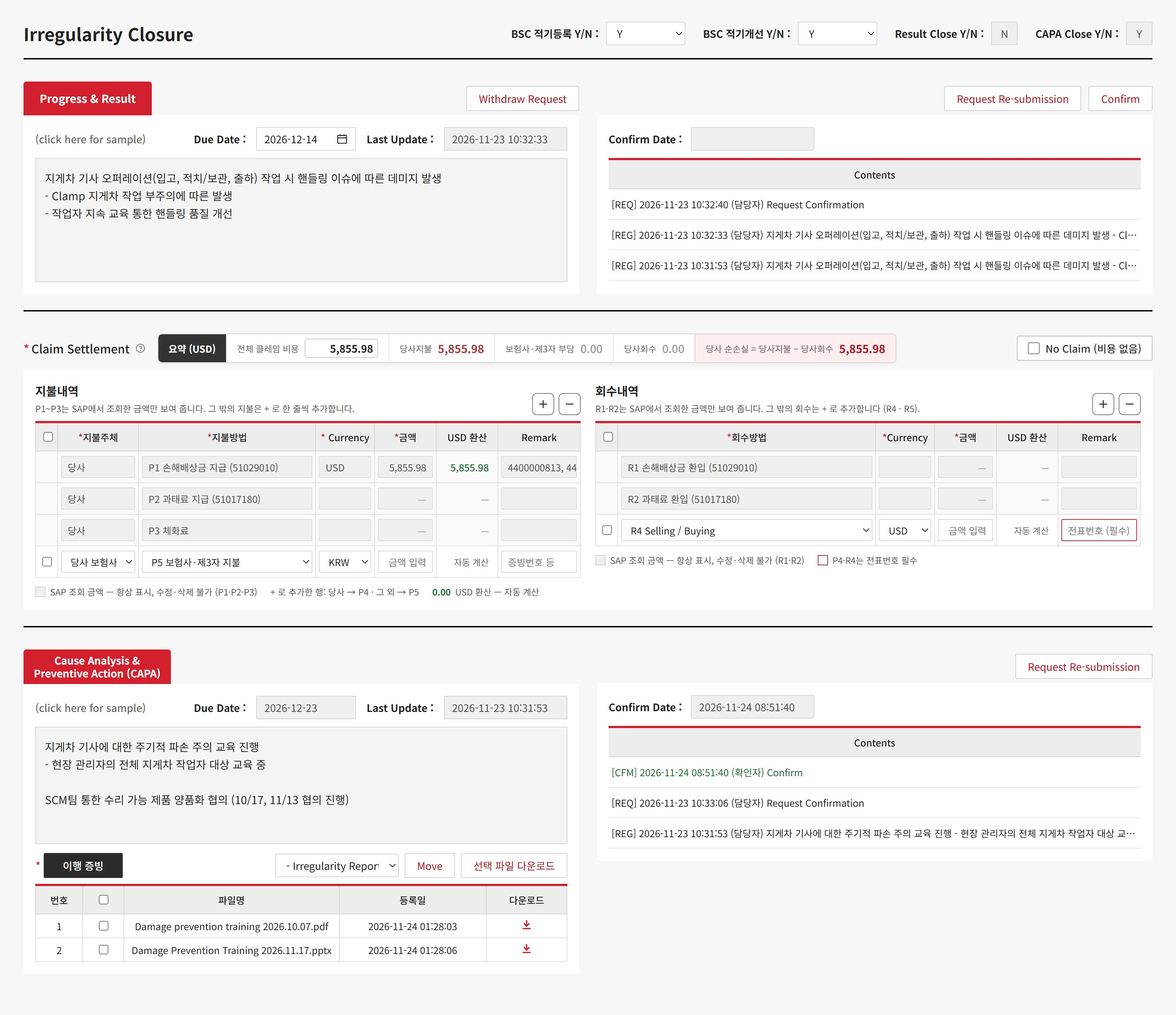
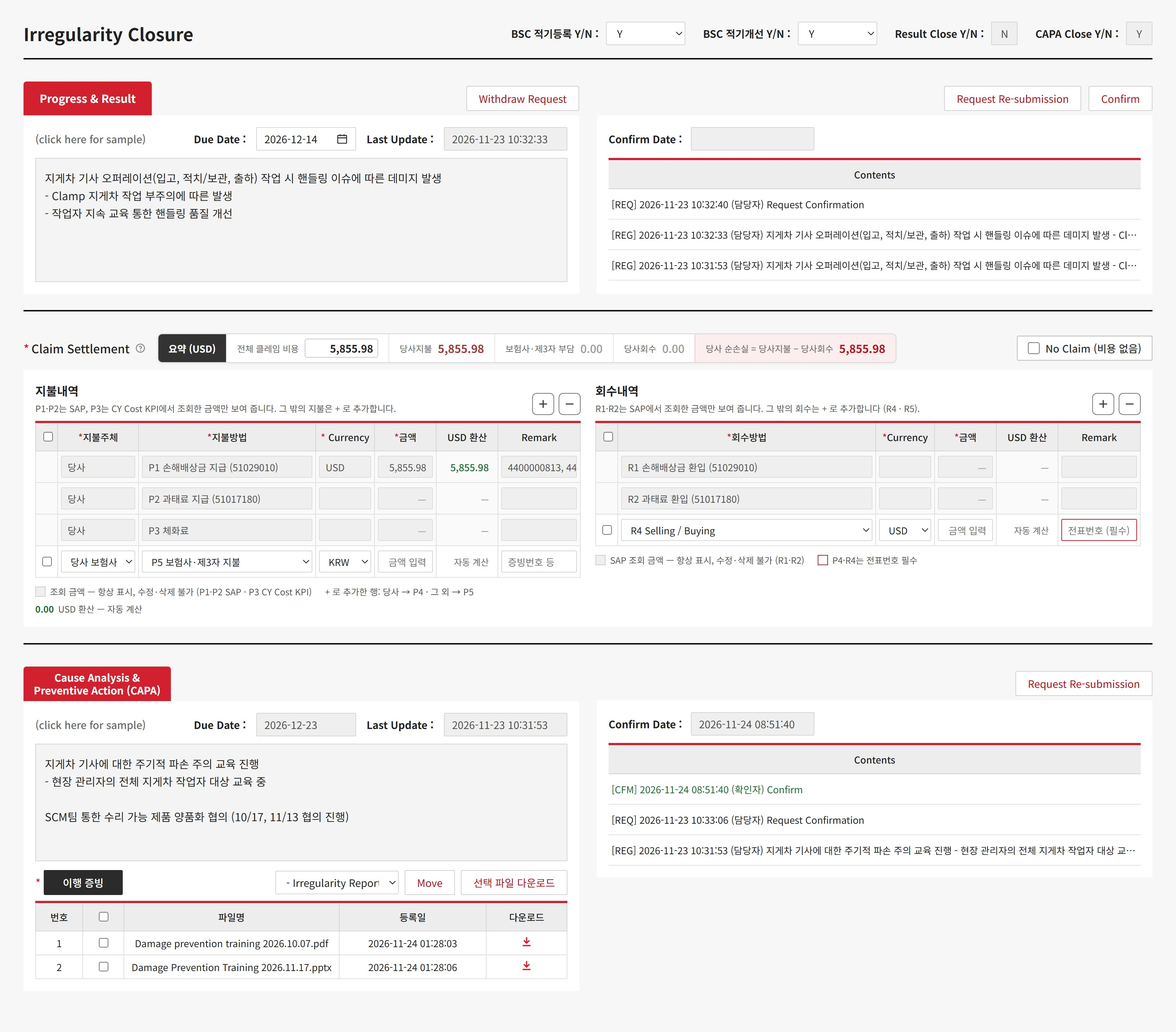
qms-claim-closure: P3 source is CY Cost KPI (P1/P2/R1/R2 from SAP)

diff --git a/share/qms-claim-closure.html b/share/qms-claim-closure.html
@@ -173,7 +173,7 @@ a{color:#B3121F}a:hover{color:#7E0C16}
 <div style="display: flex; align-items: flex-end; justify-content: space-between; gap: 12px; margin-bottom: 8px;">
 <div style="min-width: 0;">
 <h2 style="margin: 0; font-size: 16px; font-weight: 700; display: flex; align-items: center; gap: 8px;">지불내역</h2>
-<p style="margin: 4px 0 0; font-size: 12px; color: #555; line-height: 1.5;">P1~P3는 SAP에서 조회한 금액만 보여 줍니다. 그 밖의 지불은 + 로 한 줄씩 추가합니다.</p>
+<p style="margin: 4px 0 0; font-size: 12px; color: #555; line-height: 1.5;">P1·P2는 SAP, P3는 CY Cost KPI에서 조회한 금액만 보여 줍니다. 그 밖의 지불은 + 로 추가합니다.</p>
 </div>
 <div style="display: flex; align-items: center; gap: 6px; flex: none;">
 
@@ -234,7 +234,7 @@ a{color:#B3121F}a:hover{color:#7E0C16}
 </table>
 </div>
 <div class="legend">
-<span><span class="sw" style="background: #EFEFEF;"></span>SAP 조회 금액 — 항상 표시, 수정·삭제 불가 (P1·P2·P3)</span>
+<span><span class="sw" style="background: #EFEFEF;"></span>조회 금액 — 항상 표시, 수정·삭제 불가 (P1·P2 SAP · P3 CY Cost KPI)</span>
 <span>+ 로 추가한 행: 당사 → P4 · 그 외 → P5</span>
 <span><span style="color: #1E6B34; font-weight: 700; margin-right: 6px;">0.00</span>USD 환산 — 자동 계산</span>
 
@@ -454,7 +454,7 @@ Summary (USD)</div>
 <div style="display: flex; align-items: flex-end; justify-content: space-between; gap: 12px; margin-bottom: 8px;">
 <div style="min-width: 0;">
 <h2 style="margin: 0; font-size: 16px; font-weight: 700; display: flex; align-items: center; gap: 8px;">Payments</h2>
-<p style="margin: 4px 0 0; font-size: 12px; color: #555; line-height: 1.5;">P1–P3 show SAP amounts only. Add other payments one row at a time with +.</p>
+<p style="margin: 4px 0 0; font-size: 12px; color: #555; line-height: 1.5;">P1·P2 show SAP amounts and P3 shows the CY Cost KPI amount only. Add other payments with +.</p>
 </div>
 <div style="display: flex; align-items: center; gap: 6px; flex: none;">
 
@@ -515,7 +515,7 @@ Summary (USD)</div>
 </table>
 </div>
 <div class="legend">
-<span><span class="sw" style="background: #EFEFEF;"></span>SAP amounts — always shown, cannot edit or delete (P1·P2·P3)</span>
+<span><span class="sw" style="background: #EFEFEF;"></span>Looked-up amounts — always shown, cannot edit or delete (P1·P2 SAP · P3 CY Cost KPI)</span>
 <span>Rows added with +: LXP → P4 · others → P5</span>
 <span><span style="color: #1E6B34; font-weight: 700; margin-right: 6px;">0.00</span>In USD — auto-calculated</span>
 
@@ -674,7 +674,7 @@ Discussing repair of salvageable goods with the SCM team (meetings held 10/17, 1
 <tr><td><span class="tag add">신설</span></td><td> 요약 바</td><td>Claim Settlement 제목 오른쪽에 한 줄로 배치</td></tr>
 <tr><td><span class="tag add">추가</span></td><td> 전체 클레임 비용</td><td>요약 맨 앞 칸. 시안에서는 임시 입력 칸 (5번 참고)</td></tr>
 <tr><td><span class="tag chg">변경</span></td><td> 지불·회수 표</td><td>위아래 배치 → 좌우 배치 (지불 왼쪽, 회수 오른쪽)</td></tr>
-<tr><td><span class="tag chg">변경</span></td><td> SAP 조회 행</td><td>지불 P1·P2·P3, 회수 R1·R2는 <b>항상 표시</b>하는 고정 행. 조회 금액만 보여 주고 수정·삭제 불가</td></tr>
+<tr><td><span class="tag chg">변경</span></td><td> 조회 행</td><td>지불 P1·P2 (SAP) · P3 (CY Cost KPI), 회수 R1·R2 (SAP)는 <b>항상 표시</b>하는 고정 행. 조회 금액만 보여 주고 수정·삭제 불가</td></tr>
 <tr><td><span class="tag del">삭제</span></td><td>회수처 컬럼</td><td>회수 표에서 삭제</td></tr>
 <tr><td><span class="tag chg">변경</span></td><td> 행 추가·삭제</td><td>행마다 있던 '삭제' 버튼 → 표 오른쪽 위 <b>+ / −</b>. + 로는 지불 P4·P5, 회수 R4·R5만 추가</td></tr>
 <tr><td><span class="tag add">추가</span></td><td> Currency</td><td>금액 앞에 통화 선택 (KRW, USD, EUR)</td></tr>
@@ -716,9 +716,9 @@ Discussing repair of salvageable goods with the SCM team (meetings held 10/17, 1
 </table>
 <ul style="margin-top: 12px;">
 <li>표시: USD, 천 단위 콤마, 소수 2자리.</li>
-<li>행 추가·수정·삭제, SAP 조회 결과가 바뀌면 바로 다시 계산.</li>
+<li>행 추가·수정·삭제, SAP · CY Cost KPI 조회 결과가 바뀌면 바로 다시 계산.</li>
 <li>보험사·제3자 부담과 전체 클레임 비용은 당사 순손실 계산에 들어가지 않음.</li>
-<li>시안 페이지의 노란 <b>'원천 데이터 (임시 입력)'</b> 칸은 시연용입니다. 화면 위쪽 전체 비용 칸과 SAP · I/F 조회 값을 대신 넣어 보는 곳이며 실제 화면에는 넣지 않음.</li>
+<li>시안 페이지의 노란 <b>'원천 데이터 (임시 입력)'</b> 칸은 시연용입니다. 화면 위쪽 전체 비용 칸과 SAP · CY Cost KPI 조회 값을 대신 넣어 보는 곳이며 실제 화면에는 넣지 않음.</li>
 </ul>
 <h3>요약 색 규칙</h3>
 <table class="t">
@@ -747,10 +747,10 @@ Discussing repair of salvageable goods with the SCM team (meetings held 10/17, 1
 <ul>
 <li>위치: Claim Settlement 줄 <b>오른쪽 끝</b> (다른 섹션의 버튼 자리와 같음). 테두리 있는 버튼형 체크박스 <span class="f">☐ No Claim (비용 없음)</span>.</li>
 <li>체크하면: 요약 바 자리에 회색 배지 <b>'No Claim — 비용 없음'</b>, 지불·회수 표와 + / − 버튼은 접고 안내 문구 표시 (위 'No Claim 체크 시' 화면).</li>
-<li>체크 조건: <b>비용 금액이 하나도 없을 때만</b> — SAP 조회 금액(P1~P3, R1·R2), + 로 추가한 행의 금액, 전체 클레임 비용이 모두 비어 있어야 함. 하나라도 있으면 체크박스 비활성, 마우스를 올리면 이유 표시.</li>
+<li>체크 조건: <b>비용 금액이 하나도 없을 때만</b> — 조회 금액(P1·P2·R1·R2 SAP, P3 CY Cost KPI), + 로 추가한 행의 금액, 전체 클레임 비용이 모두 비어 있어야 함. 하나라도 있으면 체크박스 비활성, 마우스를 올리면 이유 표시.</li>
 <li>체크할 때: 금액 없는 추가 행은 자동 삭제. 고정 행은 그대로 두고 표와 함께 접힘.</li>
 <li>체크 해제: 언제든 가능. 체크 중에는 안내 상자의 <b>'+ 지불 추가 / + 회수 추가'</b>를 누르면 No Claim이 <b>자동 해제</b>되고 행이 추가됨.</li>
-<li>체크 중에 SAP · I/F 조회 금액이나 전체 클레임 비용이 들어오면: No Claim <b>자동 해제</b>, 이력에 'No Claim 자동 해제 (조회 금액 들어옴)' 기록 (제안).</li>
+<li>체크 중에 SAP · CY Cost KPI 조회 금액이나 전체 클레임 비용이 들어오면: No Claim <b>자동 해제</b>, 이력에 'No Claim 자동 해제 (조회 금액 들어옴)' 기록 (제안).</li>
 <li>비용이 하나도 없고 No Claim도 아닐 때: 지불 표 아래에 회색 안내 '비용이 없으면 오른쪽 위 No Claim을 체크하세요'.</li>
 <li>저장 · Result Close: <b>금액이 있는 행 1개 이상</b> 또는 <b>No Claim 체크</b> 중 하나가 아니면 막음 (비용 누락 방지).</li>
 <li>데이터: Claim 여부(Y/N) 따로 저장 → 'No Claim 건수'와 '비용 미입력 건수'를 나눠 집계.</li>
@@ -787,7 +787,7 @@ Discussing repair of salvageable goods with the SCM team (meetings held 10/17, 1
 <tbody>
 <tr><td>고정 1</td><td>당사</td><td>P1 손해배상금 지급 (51029010)</td><td> SAP 조회, 수정·삭제 불가</td></tr>
 <tr><td>고정 2</td><td>당사</td><td>P2 과태료 지급 (51017180)</td><td>SAP 조회, 수정·삭제 불가</td></tr>
-<tr><td>고정 3</td><td>당사</td><td>P3 체화료</td><td>DEM/DET/STG 조회 금액, 수정·삭제 불가</td></tr>
+<tr><td>고정 3</td><td>당사</td><td>P3 체화료</td><td><b>CY Cost KPI</b> 조회 (DEM/DET/STG), 수정·삭제 불가</td></tr>
 <tr><td rowspan="2">4번째부터 (+)</td><td>당사</td><td>P4 Selling / Buying (자동)</td><td>수기입력, <b>전표번호 필수</b></td></tr>
 <tr><td>당사 보험사 · 협력사 · 고객사</td><td>P5 보험사·제3자 지불 (자동)</td><td>수기입력</td></tr>
 </tbody>
@@ -814,8 +814,8 @@ Discussing repair of salvageable goods with the SCM team (meetings held 10/17, 1
 <ol>
 <li><b>환율 출처와 기준일</b> — 일자 컬럼이 없어져 USD 환산 기준일을 따로 정해야 함 (예: 입력일, 전표일, 부적합 발생일).</li>
 <li><b>전체 클레임 비용 입력 위치</b> — 화면 위쪽의 기존 칸을 그대로 쓰고 요약에는 보여 주기만 할지, 요약의 이 칸을 입력 칸으로 쓸지. 두 곳에서 입력하면 값이 어긋나므로 한 곳만.</li>
-<li><b>SAP 조회 시점</b> — P1~P3 · R1 · R2 금액을 화면을 열 때 자동으로 불러올지, 버튼으로 불러올지.</li>
-<li><b>P3 체화료 조회 출처</b> — 기존엔 수기입력(자동 생성 건만 I/F). 이제 조회 금액만 보여 주므로 I/F 범위 확인.</li>
+<li><b>조회 시점</b> — SAP(P1·P2·R1·R2)와 CY Cost KPI(P3) 금액을 화면을 열 때 자동으로 불러올지, 버튼으로 불러올지.</li>
+<li><b>P3 CY Cost KPI 연동 범위</b> — 가져올 금액(DEM/DET/STG 합계인지 항목별인지)과 통화, Remark에 보여 줄 참조번호.</li>
 <li><b>R3 체화료 환입</b> — 회수 + 선택지(R4·R5)에서 빠짐. 필요하면 고정 행 또는 선택지로 추가.</li>
 <li><b>회수처 정보</b> — 컬럼을 없앴으므로 필요하면 Remark에 적을지.</li>
 <li><b>기존 Actual Loss Cost 데이터 이관</b> — 기존 Pay Amount → P1 또는 추가 행, Recovery Amount → R1 또는 추가 행으로 옮길지.</li>
@@ -842,15 +842,15 @@ Discussing repair of salvageable goods with the SCM team (meetings held 10/17, 1
                R1: 'R1 손해배상금 환입 (51029010)', R2: 'R2 과태료 환입 (51017180)', R4: 'R4 Selling / Buying', R5: 'R5 기타' },
       choose: '선택', amount: '금액 입력', auto: '자동 계산', remark: '증빙번호 등', voucher: '전표번호 (필수)',
       emptyHint: '조회·입력된 비용이 없습니다. 비용이 없으면 오른쪽 위 No Claim을 체크하세요.',
-      ncDisabled: '비용 금액(SAP 조회, 입력 행, 전체 클레임 비용)이 있어 No Claim을 선택할 수 없습니다.',
+      ncDisabled: '비용 금액(SAP · CY Cost KPI 조회, 입력 행, 전체 클레임 비용)이 있어 No Claim을 선택할 수 없습니다.',
       badge: 'No Claim — 비용 없음',
       notice: '<b style="color:#333">비용이 없는 건으로 표시되었습니다.</b> 지불내역·회수내역 표는 접혀 있습니다.<br>비용이 생기면 아래 버튼으로 바로 추가하세요. No Claim은 자동으로 해제됩니다.',
       addPay: '+ 지불 추가', addRec: '+ 회수 추가',
       lossK: '당사 순손실 = 당사지불 − 당사회수', gainK: '당사 순이익 = 당사회수 − 당사지불',
       histOn: 'No Claim 체크', histOff: 'No Claim 해제', who: '담당자',
       demo: '시연', demoNote: '아래 Claim Settlement는 실제로 눌러 볼 수 있습니다', reset: '처음 상태로', empty: '비용 없는 상태로', check: '저장 검사',
-      srcTitle: '원천 데이터 (임시 입력)', srcNote: '실제로는 화면 위쪽 칸과 SAP · I/F에서 들어오는 값입니다. 여기서 바꾸면 아래 화면에 바로 반영됩니다.',
-      srcTotal: '전체 클레임 비용 (화면 위쪽 칸)', srcPay: '지불 조회 (SAP · I/F)', srcRec: '회수 조회 (SAP)', srcVoucher: '전표번호', histAuto: 'No Claim 자동 해제 (조회 금액 들어옴)',
+      srcTitle: '원천 데이터 (임시 입력)', srcNote: '실제로는 화면 위쪽 칸, SAP, CY Cost KPI에서 들어오는 값입니다. 여기서 바꾸면 아래 화면에 바로 반영됩니다.',
+      srcTotal: '전체 클레임 비용 (화면 위쪽 칸)', srcPay: '지급 조회 — P1·P2 SAP · P3 CY Cost KPI', srcRec: '회수 조회 — R1·R2 SAP', srcVoucher: '전표번호', srcRef: '참조번호', histAuto: 'No Claim 자동 해제 (조회 금액 들어옴)',
       fx: '예시 환율: 1 USD = 1,400 KRW · 1 EUR = 1.08 USD',
       ok: '저장 가능 — 필수 항목이 모두 입력되었습니다.', okNc: '저장 가능 — No Claim 건입니다.',
       errRows: '저장 불가 — 비용 금액이 없습니다. 금액을 입력하거나 No Claim을 체크하세요.', errFields: function (n) { return '저장 불가 — 빨간 칸 ' + n + '곳을 채우세요.'; }
@@ -861,15 +861,15 @@ Discussing repair of salvageable goods with the SCM team (meetings held 10/17, 1
                R1: 'R1 Compensation (51029010)', R2: 'R2 Penalty (51017180)', R4: 'R4 Selling / Buying', R5: 'R5 Other' },
       choose: 'Select', amount: 'Amount', auto: 'Auto', remark: 'Evidence no.', voucher: 'Voucher no.',
       emptyHint: 'No cost found or entered. If there is no cost, tick No Claim at the top right.',
-      ncDisabled: 'A cost amount exists (SAP, entered row or total claim cost), so No Claim cannot be selected.',
+      ncDisabled: 'A cost amount exists (SAP / CY Cost KPI, entered row or total claim cost), so No Claim cannot be selected.',
       badge: 'No Claim — no cost',
       notice: '<b style="color:#333">This case is marked as having no cost.</b> The payment and recovery tables are collapsed.<br>If a cost arises, add it with the buttons below. No Claim is cleared automatically.',
       addPay: '+ Add payment', addRec: '+ Add recovery',
       lossK: 'LXP net loss (paid − recovered)', gainK: 'LXP net gain (recovered − paid)',
       histOn: 'No Claim checked', histOff: 'No Claim cleared', who: 'PIC',
       demo: 'Demo', demoNote: 'The Claim Settlement below is clickable', reset: 'Reset', empty: 'Start with no cost', check: 'Check save',
-      srcTitle: 'Source data (temporary input)', srcNote: 'In the real system these come from the field at the top of the screen and from SAP / I/F. Changes here update the screen below right away.',
-      srcTotal: 'Total claim cost (top of screen)', srcPay: 'Payment lookup (SAP · I/F)', srcRec: 'Recovery lookup (SAP)', srcVoucher: 'Voucher no.', histAuto: 'No Claim cleared automatically (amount received)',
+      srcTitle: 'Source data (temporary input)', srcNote: 'In the real system these come from the field at the top of the screen, SAP and CY Cost KPI. Changes here update the screen below right away.',
+      srcTotal: 'Total claim cost (top of screen)', srcPay: 'Payment lookup — P1·P2 SAP · P3 CY Cost KPI', srcRec: 'Recovery lookup — R1·R2 SAP', srcVoucher: 'Voucher no.', srcRef: 'Ref no.', histAuto: 'No Claim cleared automatically (amount received)',
       fx: 'Example FX: 1 USD = 1,400 KRW · 1 EUR = 1.08 USD',
       ok: 'Can save — all required fields are filled.', okNc: 'Can save — No Claim case.',
       errRows: 'Cannot save — no cost amount. Enter an amount or tick No Claim.', errFields: function (n) { return 'Cannot save — fill the ' + n + ' red field(s).'; }
@@ -936,14 +936,14 @@ Discussing repair of salvageable goods with the SCM team (meetings held 10/17, 1
     section.parentElement.insertBefore(bar, section);
     var msg = bar.querySelector('[data-msg]');
 
-    // source data panel (temporary, demo only): top-of-screen total + SAP / I/F lookups
+    // source data panel (temporary, demo only): top-of-screen total + SAP / CY Cost KPI lookups
     var IN = 'height:28px;border:1px solid #D6C48A;border-radius:3px;background:#fff;font:inherit;font-size:13px;padding:0 6px;box-sizing:border-box;';
     function srcRow(type) {
       return '<div style="display:grid;grid-template-columns:minmax(90px,1fr) 62px minmax(70px,100px) minmax(80px,120px);gap:6px;align-items:center">' +
         '<span style="white-space:nowrap;overflow:hidden;text-overflow:ellipsis" title="' + esc(L.types[type]) + '">' + esc(L.types[type]) + '</span>' +
         '<select data-src="' + type + '" data-f="cur" style="' + IN + '">' + ['USD', 'KRW', 'EUR'].map(function (c) { return '<option>' + c + '</option>'; }).join('') + '</select>' +
         '<input data-src="' + type + '" data-f="amt" inputmode="decimal" placeholder="' + L.amount + '" style="' + IN + 'text-align:right">' +
-        '<input data-src="' + type + '" data-f="remark" placeholder="' + L.srcVoucher + '" style="' + IN + '"></div>';
+        '<input data-src="' + type + '" data-f="remark" placeholder="' + (type === 'P3' ? L.srcRef : L.srcVoucher) + '" style="' + IN + '"></div>';
     }
     function srcBlock(title, inner, flex) {
       return '<div style="flex:' + (flex || '1 1 440px') + ';min-width:0;display:flex;flex-direction:column;gap:6px"><b style="font-size:12px">' + title + '</b>' + inner + '</div>';
@@ -1017,7 +1017,7 @@ Discussing repair of salvageable goods with the SCM team (meetings held 10/17, 1
     function usdCell(r) { return '<td data-usd>' + (r.amt ? '<div class="usd">' + fmt(usd(r)) + '</div>' : '<div class="auto">' + (r.fixed ? '—' : L.auto) + '</div>') + '</td>'; }
     function rowHTML(k, r, i) {
       var a = ' data-k="' + k + '" data-i="' + i + '"';
-      if (r.fixed) {   // SAP 조회 행: 항상 표시, 수정·삭제 불가
+      if (r.fixed) {   // 조회 행 (P1·P2·R1·R2 SAP, P3 CY Cost KPI): 항상 표시, 수정·삭제 불가
         var h = '<tr class="fx"><td></td>';
         if (k === 'pay') h += '<td><div class="rocell">' + L.parties.LXP + '</div></td>';
         h += '<td><div class="rocell">' + esc(L.types[r.type]) + '</div></td>';

diff --git a/share/qms-claim-closure-en.html b/share/qms-claim-closure-en.html
@@ -173,7 +173,7 @@ Summary (USD)</div>
 <div style="display: flex; align-items: flex-end; justify-content: space-between; gap: 12px; margin-bottom: 8px;">
 <div style="min-width: 0;">
 <h2 style="margin: 0; font-size: 16px; font-weight: 700; display: flex; align-items: center; gap: 8px;">Payments</h2>
-<p style="margin: 4px 0 0; font-size: 12px; color: #555; line-height: 1.5;">P1–P3 show SAP amounts only. Add other payments one row at a time with +.</p>
+<p style="margin: 4px 0 0; font-size: 12px; color: #555; line-height: 1.5;">P1·P2 show SAP amounts and P3 shows the CY Cost KPI amount only. Add other payments with +.</p>
 </div>
 <div style="display: flex; align-items: center; gap: 6px; flex: none;">
 
@@ -234,7 +234,7 @@ Summary (USD)</div>
 </table>
 </div>
 <div class="legend">
-<span><span class="sw" style="background: #EFEFEF;"></span>SAP amounts — always shown, cannot edit or delete (P1·P2·P3)</span>
+<span><span class="sw" style="background: #EFEFEF;"></span>Looked-up amounts — always shown, cannot edit or delete (P1·P2 SAP · P3 CY Cost KPI)</span>
 <span>Rows added with +: LXP → P4 · others → P5</span>
 <span><span style="color: #1E6B34; font-weight: 700; margin-right: 6px;">0.00</span>In USD — auto-calculated</span>
 
@@ -394,7 +394,7 @@ Discussing repair of salvageable goods with the SCM team (meetings held 10/17, 1
 <tr><td><span class="tag add">New</span></td><td> Summary bar</td><td>One line to the right of the Claim Settlement title</td></tr>
 <tr><td><span class="tag add">Add</span></td><td> Total claim cost</td><td>First summary cell. A temporary input in this mockup (see 5)</td></tr>
 <tr><td><span class="tag chg">Change</span></td><td> Payment / recovery tables</td><td>Stacked → side by side (payments left, recoveries right)</td></tr>
-<tr><td><span class="tag chg">Change</span></td><td> SAP rows</td><td>Payments P1·P2·P3 and recoveries R1·R2 are fixed rows that are <b>always shown</b>. They show the looked-up amount only and cannot be edited or deleted</td></tr>
+<tr><td><span class="tag chg">Change</span></td><td> Looked-up rows</td><td>Payments P1·P2 (SAP) · P3 (CY Cost KPI) and recoveries R1·R2 (SAP) are fixed rows that are <b>always shown</b>. They show the looked-up amount only and cannot be edited or deleted</td></tr>
 <tr><td><span class="tag del">Remove</span></td><td>Recovered-from column</td><td>Removed from the recovery table</td></tr>
 <tr><td><span class="tag chg">Change</span></td><td> Add / delete rows</td><td>Per-row 'Delete' button → <b>+ / −</b> at the top right of each table. + adds only P4·P5 (payments) and R4·R5 (recoveries)</td></tr>
 <tr><td><span class="tag add">Add</span></td><td> Currency</td><td>Currency selector before the amount (KRW, USD, EUR)</td></tr>
@@ -436,9 +436,9 @@ Discussing repair of salvageable goods with the SCM team (meetings held 10/17, 1
 </table>
 <ul style="margin-top: 12px;">
 <li>Display: USD, thousands separators, 2 decimals.</li>
-<li>Recalculate immediately when rows are added, edited or deleted, or SAP results change.</li>
+<li>Recalculate immediately when rows are added, edited or deleted, or SAP / CY Cost KPI results change.</li>
 <li>Insurer / 3rd party and total claim cost are not part of the LXP net loss.</li>
-<li>The yellow <b>'Source data (temporary input)'</b> box on the mockup page is for the demo only. It stands in for the total-cost field at the top of the screen and the SAP / I/F lookups, and is not part of the real screen.</li>
+<li>The yellow <b>'Source data (temporary input)'</b> box on the mockup page is for the demo only. It stands in for the total-cost field at the top of the screen and the SAP / CY Cost KPI lookups, and is not part of the real screen.</li>
 </ul>
 <h3>Summary colour rules</h3>
 <table class="t">
@@ -467,10 +467,10 @@ Discussing repair of salvageable goods with the SCM team (meetings held 10/17, 1
 <ul>
 <li>Position: <b>right end</b> of the Claim Settlement row (same place as other sections' buttons). Button-style checkbox with a border: <span class="f">☐ No Claim</span>.</li>
 <li>When checked: the summary bar is replaced by a grey badge <b>'No Claim — no cost'</b>; the tables and + / − buttons collapse and a notice is shown (see 'When No Claim is checked' above).</li>
-<li>Can be checked <b>only when there is no cost amount at all</b> — SAP amounts (P1–P3, R1·R2), amounts in rows added with +, and total claim cost must all be empty. Otherwise the checkbox is disabled and hovering shows why.</li>
+<li>Can be checked <b>only when there is no cost amount at all</b> — looked-up amounts (P1·P2·R1·R2 from SAP, P3 from CY Cost KPI), amounts in rows added with +, and total claim cost must all be empty. Otherwise the checkbox is disabled and hovering shows why.</li>
 <li>On check: added rows without an amount are removed. Fixed rows stay and collapse with the tables.</li>
 <li>Unchecking: allowed at any time. While checked, <b>'+ Add payment / + Add recovery'</b> in the notice box <b>clears No Claim automatically</b> and adds a row.</li>
-<li>If an SAP / I/F amount or a total claim cost arrives while checked: No Claim is <b>cleared automatically</b> and logged as 'No Claim cleared automatically (amount received)' (suggestion).</li>
+<li>If an SAP / CY Cost KPI amount or a total claim cost arrives while checked: No Claim is <b>cleared automatically</b> and logged as 'No Claim cleared automatically (amount received)' (suggestion).</li>
 <li>If there is no cost and No Claim is not checked: a grey hint below the payment table 'If there is no cost, tick No Claim at the top right'.</li>
 <li>Save · Result Close: blocked unless there is <b>at least one row with an amount</b> or <b>No Claim is checked</b> (prevents missing costs).</li>
 <li>Data: store Claim Y/N separately so 'No Claim' cases and 'cost not entered' cases can be counted apart.</li>
@@ -507,7 +507,7 @@ Discussing repair of salvageable goods with the SCM team (meetings held 10/17, 1
 <tbody>
 <tr><td>Fixed 1</td><td>LXP</td><td>P1 Compensation (51029010)</td><td> From SAP, cannot edit or delete</td></tr>
 <tr><td>Fixed 2</td><td>LXP</td><td>P2 Penalty (51017180)</td><td>From SAP, cannot edit or delete</td></tr>
-<tr><td>Fixed 3</td><td>LXP</td><td>P3 DEM/DET/STG</td><td>Looked-up DEM/DET/STG amount, cannot edit or delete</td></tr>
+<tr><td>Fixed 3</td><td>LXP</td><td>P3 DEM/DET/STG</td><td>From <b>CY Cost KPI</b>, cannot edit or delete</td></tr>
 <tr><td rowspan="2">Row 4 on (+)</td><td>LXP</td><td>P4 Selling / Buying (auto)</td><td>Manual, <b>voucher no. required</b></td></tr>
 <tr><td>LXP insurer · Vendor · Customer</td><td>P5 Paid by insurer / 3rd party (auto)</td><td>Manual</td></tr>
 </tbody>
@@ -534,8 +534,8 @@ Discussing repair of salvageable goods with the SCM team (meetings held 10/17, 1
 <ol>
 <li><b>FX source and reference date</b> — with no Date column, a reference date for the USD conversion is needed (e.g. entry date, voucher date, irregularity date).</li>
 <li><b>Where total claim cost is entered</b> — keep the existing input at the top of the screen and only show it in the summary, or make this summary cell the input. Entering it in two places lets the values drift, so use one.</li>
-<li><b>When SAP is looked up</b> — load P1–P3 · R1 · R2 automatically when the screen opens, or with a button.</li>
-<li><b>Source of P3 DEM/DET/STG</b> — previously manual (I/F only for auto-created cases). Since only looked-up amounts are shown now, confirm the I/F coverage.</li>
+<li><b>When amounts are looked up</b> — load SAP (P1·P2·R1·R2) and CY Cost KPI (P3) automatically when the screen opens, or with a button.</li>
+<li><b>P3 CY Cost KPI link</b> — which amount to take (DEM/DET/STG total or per item), its currency, and which reference number to show in Remark.</li>
 <li><b>R3 DEM/DET/STG recovery</b> — not in the recovery + options (R4·R5). Add as a fixed row or option if needed.</li>
 <li><b>Recovered-from information</b> — the column is removed; write it in Remark if needed?</li>
 <li><b>Migrating existing Actual Loss Cost data</b> — move the old Pay Amount into P1 or an added row, and Recovery Amount into R1 or an added row?</li>
@@ -562,15 +562,15 @@ Discussing repair of salvageable goods with the SCM team (meetings held 10/17, 1
                R1: 'R1 손해배상금 환입 (51029010)', R2: 'R2 과태료 환입 (51017180)', R4: 'R4 Selling / Buying', R5: 'R5 기타' },
       choose: '선택', amount: '금액 입력', auto: '자동 계산', remark: '증빙번호 등', voucher: '전표번호 (필수)',
       emptyHint: '조회·입력된 비용이 없습니다. 비용이 없으면 오른쪽 위 No Claim을 체크하세요.',
-      ncDisabled: '비용 금액(SAP 조회, 입력 행, 전체 클레임 비용)이 있어 No Claim을 선택할 수 없습니다.',
+      ncDisabled: '비용 금액(SAP · CY Cost KPI 조회, 입력 행, 전체 클레임 비용)이 있어 No Claim을 선택할 수 없습니다.',
       badge: 'No Claim — 비용 없음',
       notice: '<b style="color:#333">비용이 없는 건으로 표시되었습니다.</b> 지불내역·회수내역 표는 접혀 있습니다.<br>비용이 생기면 아래 버튼으로 바로 추가하세요. No Claim은 자동으로 해제됩니다.',
       addPay: '+ 지불 추가', addRec: '+ 회수 추가',
       lossK: '당사 순손실 = 당사지불 − 당사회수', gainK: '당사 순이익 = 당사회수 − 당사지불',
       histOn: 'No Claim 체크', histOff: 'No Claim 해제', who: '담당자',
       demo: '시연', demoNote: '아래 Claim Settlement는 실제로 눌러 볼 수 있습니다', reset: '처음 상태로', empty: '비용 없는 상태로', check: '저장 검사',
-      srcTitle: '원천 데이터 (임시 입력)', srcNote: '실제로는 화면 위쪽 칸과 SAP · I/F에서 들어오는 값입니다. 여기서 바꾸면 아래 화면에 바로 반영됩니다.',
-      srcTotal: '전체 클레임 비용 (화면 위쪽 칸)', srcPay: '지불 조회 (SAP · I/F)', srcRec: '회수 조회 (SAP)', srcVoucher: '전표번호', histAuto: 'No Claim 자동 해제 (조회 금액 들어옴)',
+      srcTitle: '원천 데이터 (임시 입력)', srcNote: '실제로는 화면 위쪽 칸, SAP, CY Cost KPI에서 들어오는 값입니다. 여기서 바꾸면 아래 화면에 바로 반영됩니다.',
+      srcTotal: '전체 클레임 비용 (화면 위쪽 칸)', srcPay: '지급 조회 — P1·P2 SAP · P3 CY Cost KPI', srcRec: '회수 조회 — R1·R2 SAP', srcVoucher: '전표번호', srcRef: '참조번호', histAuto: 'No Claim 자동 해제 (조회 금액 들어옴)',
       fx: '예시 환율: 1 USD = 1,400 KRW · 1 EUR = 1.08 USD',
       ok: '저장 가능 — 필수 항목이 모두 입력되었습니다.', okNc: '저장 가능 — No Claim 건입니다.',
       errRows: '저장 불가 — 비용 금액이 없습니다. 금액을 입력하거나 No Claim을 체크하세요.', errFields: function (n) { return '저장 불가 — 빨간 칸 ' + n + '곳을 채우세요.'; }
@@ -581,15 +581,15 @@ Discussing repair of salvageable goods with the SCM team (meetings held 10/17, 1
                R1: 'R1 Compensation (51029010)', R2: 'R2 Penalty (51017180)', R4: 'R4 Selling / Buying', R5: 'R5 Other' },
       choose: 'Select', amount: 'Amount', auto: 'Auto', remark: 'Evidence no.', voucher: 'Voucher no.',
       emptyHint: 'No cost found or entered. If there is no cost, tick No Claim at the top right.',
-      ncDisabled: 'A cost amount exists (SAP, entered row or total claim cost), so No Claim cannot be selected.',
+      ncDisabled: 'A cost amount exists (SAP / CY Cost KPI, entered row or total claim cost), so No Claim cannot be selected.',
       badge: 'No Claim — no cost',
       notice: '<b style="color:#333">This case is marked as having no cost.</b> The payment and recovery tables are collapsed.<br>If a cost arises, add it with the buttons below. No Claim is cleared automatically.',
       addPay: '+ Add payment', addRec: '+ Add recovery',
       lossK: 'LXP net loss (paid − recovered)', gainK: 'LXP net gain (recovered − paid)',
       histOn: 'No Claim checked', histOff: 'No Claim cleared', who: 'PIC',
       demo: 'Demo', demoNote: 'The Claim Settlement below is clickable', reset: 'Reset', empty: 'Start with no cost', check: 'Check save',
-      srcTitle: 'Source data (temporary input)', srcNote: 'In the real system these come from the field at the top of the screen and from SAP / I/F. Changes here update the screen below right away.',
-      srcTotal: 'Total claim cost (top of screen)', srcPay: 'Payment lookup (SAP · I/F)', srcRec: 'Recovery lookup (SAP)', srcVoucher: 'Voucher no.', histAuto: 'No Claim cleared automatically (amount received)',
+      srcTitle: 'Source data (temporary input)', srcNote: 'In the real system these come from the field at the top of the screen, SAP and CY Cost KPI. Changes here update the screen below right away.',
+      srcTotal: 'Total claim cost (top of screen)', srcPay: 'Payment lookup — P1·P2 SAP · P3 CY Cost KPI', srcRec: 'Recovery lookup — R1·R2 SAP', srcVoucher: 'Voucher no.', srcRef: 'Ref no.', histAuto: 'No Claim cleared automatically (amount received)',
       fx: 'Example FX: 1 USD = 1,400 KRW · 1 EUR = 1.08 USD',
       ok: 'Can save — all required fields are filled.', okNc: 'Can save — No Claim case.',
       errRows: 'Cannot save — no cost amount. Enter an amount or tick No Claim.', errFields: function (n) { return 'Cannot save — fill the ' + n + ' red field(s).'; }
@@ -656,14 +656,14 @@ Discussing repair of salvageable goods with the SCM team (meetings held 10/17, 1
     section.parentElement.insertBefore(bar, section);
     var msg = bar.querySelector('[data-msg]');
 
-    // source data panel (temporary, demo only): top-of-screen total + SAP / I/F lookups
+    // source data panel (temporary, demo only): top-of-screen total + SAP / CY Cost KPI lookups
     var IN = 'height:28px;border:1px solid #D6C48A;border-radius:3px;background:#fff;font:inherit;font-size:13px;padding:0 6px;box-sizing:border-box;';
     function srcRow(type) {
       return '<div style="display:grid;grid-template-columns:minmax(90px,1fr) 62px minmax(70px,100px) minmax(80px,120px);gap:6px;align-items:center">' +
         '<span style="white-space:nowrap;overflow:hidden;text-overflow:ellipsis" title="' + esc(L.types[type]) + '">' + esc(L.types[type]) + '</span>' +
         '<select data-src="' + type + '" data-f="cur" style="' + IN + '">' + ['USD', 'KRW', 'EUR'].map(function (c) { return '<option>' + c + '</option>'; }).join('') + '</select>' +
         '<input data-src="' + type + '" data-f="amt" inputmode="decimal" placeholder="' + L.amount + '" style="' + IN + 'text-align:right">' +
-        '<input data-src="' + type + '" data-f="remark" placeholder="' + L.srcVoucher + '" style="' + IN + '"></div>';
+        '<input data-src="' + type + '" data-f="remark" placeholder="' + (type === 'P3' ? L.srcRef : L.srcVoucher) + '" style="' + IN + '"></div>';
     }
     function srcBlock(title, inner, flex) {
       return '<div style="flex:' + (flex || '1 1 440px') + ';min-width:0;display:flex;flex-direction:column;gap:6px"><b style="font-size:12px">' + title + '</b>' + inner + '</div>';
@@ -737,7 +737,7 @@ Discussing repair of salvageable goods with the SCM team (meetings held 10/17, 1
     function usdCell(r) { return '<td data-usd>' + (r.amt ? '<div class="usd">' + fmt(usd(r)) + '</div>' : '<div class="auto">' + (r.fixed ? '—' : L.auto) + '</div>') + '</td>'; }
     function rowHTML(k, r, i) {
       var a = ' data-k="' + k + '" data-i="' + i + '"';
-      if (r.fixed) {   // SAP 조회 행: 항상 표시, 수정·삭제 불가
+      if (r.fixed) {   // 조회 행 (P1·P2·R1·R2 SAP, P3 CY Cost KPI): 항상 표시, 수정·삭제 불가
         var h = '<tr class="fx"><td></td>';
         if (k === 'pay') h += '<td><div class="rocell">' + L.parties.LXP + '</div></td>';
         h += '<td><div class="rocell">' + esc(L.types[r.type]) + '</div></td>';
